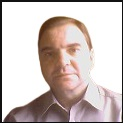
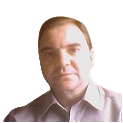
19: The resume section for 768 is ready.

diff --git a/js/form.js b/js/form.js
@@ -3,13 +3,12 @@ document.addEventListener('DOMContentLoaded', function(){
   const form = document.getElementById('form');
   form.addEventListener('submit', formSend);
 //------------------------------------------------
-// Function for submitting the entire form:
+  // Function for submitting the entire form:
   async function formSend(e){
     e.preventDefault();
 
     let error = formValidate(form);
 
-  // Sending the form by email:
     let formData = new FormData(form);
 
     if(error === 0){
@@ -32,7 +31,7 @@ document.addEventListener('DOMContentLoaded', function(){
       alert('Fill in required fields!');
     }
   }  
-//-----------------------------------------------
+  //-----------------------------------------------
   // Function for validation:  
   function formValidate(form){
     let error = 0;
@@ -54,19 +53,10 @@ document.addEventListener('DOMContentLoaded', function(){
       } else if(input.classList.contains('form__email')){        
         if(emailTest(input)){         
           error++;
-        }      
-        // if(input.classList.contains('form__tel')){        
-        //   if(phoneTest(input)){         
-        //     error++;
-        //   }
-        // }      
-      }         
-        // if(input.classList.contains('form__tel')){        
-        //   if(emailTest(input)){         
-        //     error++;
-        //   }      
-        // }            
+        }           
+      }                     
     }
+    //----------------------------------------
 
     function formAddErrorForTel(inputTel, text){
       const parentTel = inputTel.parentNode;
@@ -83,11 +73,6 @@ document.addEventListener('DOMContentLoaded', function(){
         parentTel.querySelector('.form__label').remove();
         inputTel.classList.remove('_error');
       }
-      // parentTel.classList.add('errorTel');
-      // inputTel.classList.add('_error');
-      // errorLabel.classList.add('form__label');
-      // errorLabel.textContent = text;
-      // parentTel.append(errorLabel);
     }
     // Phone number testing function:
     function phoneTest(inputTel){
@@ -96,7 +81,7 @@ document.addEventListener('DOMContentLoaded', function(){
 
     if(inputTel.value !==''){
       if(phoneTest(inputTel)){
-        formAddErrorForTel(inputTel, 'No one!');
+        formAddErrorForTel(inputTel, 'The first character must be a number or a plus. The last character is a number only. Parentheses, spaces and hyphens are allowed. From 4 to 14 characters in total.');
         error++;
       } else {
         formRemoveErrorForTel(inputTel);
@@ -104,10 +89,8 @@ document.addEventListener('DOMContentLoaded', function(){
     }
 
     return error;
-  }
-// // End of checking that required fields are filled in
-  
-
+  }  
+  //-------------------------------------------------
   function formAddError(input, text){
     input.classList.add('_error');
     const formItems = input.parentNode;
@@ -128,33 +111,5 @@ document.addEventListener('DOMContentLoaded', function(){
   function emailTest(input){
     return !/^\w+([\.-]?\w+)*@\w+([\.-]?\w+)*(\.\w{2,8})+$/.test(input.value);
   }
-
-  
-  // // End of email testing feature  
-
-  //+++++++++ Temporarily not in use: +++++++++++++++++++++++
-    // Phone number verification function:    
-    
-    // // End of phone number testing function
-
-    // if(inputTel.value ===''){
-    //   formAddErrorForTel(inputTel, 'Fill in required fields!');
-    //   error++;
-    // } else if(phoneTest(inputTel)){
-    //   formRemoveErrorForTel(inputTel);
-    //   error++;
-    // }
-    // }
-  
-
-
-    // if(inputTel.value !== ''){
-    //   formRemoveErrorForTel(inputTel);
-    //   if(phoneTest(inputTel)){
-    //     formAddErrorForTel(inputTel, 'The first character must be a number or a plus. The last character is a number only. Parentheses, spaces and hyphens are allowed. From 4 to 14 characters in total.');
-    //     error++;      
-    //   }
-    // }    
-    // // End of phone number verification function
-//+++++++++ //Temporarily not in use +++++++++++++++++++++++
+  //-------------------------------
 });

diff --git a/index.html b/index.html
@@ -33,7 +33,7 @@
           </ul>
         </nav>
         <div class="header__photo">
-            <img src="img/images/images-myPhoto/myPhoto_1.jpg" alt="My photo">
+            <img src="img/images/images-myPhoto/myPhotoBig.jpg" alt="My photo">
         </div>
         <hgroup class="header__text">
           <h1 class="header__title">Aleksandr Bugakov</h1>
@@ -56,7 +56,7 @@
       <section class="resume">
         <div class="resume__container _container" id="resume">
           <div class="resume__photo">
-              <img src="img/images/images-myPhoto/myPhoto_for_resume.jpg" alt="My photo">
+              <img src="img/images/images-myPhoto/myPhotoSmall.jpg" alt="My photo">
           </div>          
           <h2 class="resume__title heading">Resume</h2>
           <div class="resume__about">
@@ -66,7 +66,7 @@
           </div>         
           <div class="resume__row">            
             <div class="resume__col">
-              <h3 class="heading heading--medium">Work experience</h3>
+              <h3 class="heading--medium">Work experience</h3>
               <ul class="definition-list">
                 <li class="definition-list__item">
                   <div class="definition-list__def">December - present</div>                  

diff --git a/scss/sections/_resume.scss b/scss/sections/_resume.scss
@@ -27,6 +27,7 @@
     background: transparent;
     font-size: 0;
   }
+  
   &__row {
     margin: 35px 0 15px;
     display: grid;
@@ -40,16 +41,16 @@
 }  
 @media(min-width: 768px) {
   .resume {
-    padding: 54px 0px;
+    padding: 56px 0px;
 
     &__container {
       padding: 0 24px;
       display: grid;
       // grid-template-rows: min-content auto min-content;
       // grid-template-columns: 1fr 3fr;
-      row-gap: 30px;
+      row-gap: 25px;
       column-gap: 10px;
-      grid-template-columns: 155px 1fr;
+      grid-template-columns: 114px 1fr;
       grid-template-rows: auto auto auto auto;
       grid-template-areas: 
       "resume__photo resume__title"
@@ -72,7 +73,7 @@
       opacity: 1;
       border-radius: 80px;
 
-    
+      
     // margin-bottom: 40px;
     // margin-top: 20px;
     // overflow: hidden;

diff --git a/css/style.css b/css/style.css
@@ -339,7 +339,7 @@ a.mouse__scroll {
 .button {
   display: inline-block;
   background-color: var(--default-text-blue-dark);
-  padding: 15px 20px;
+  padding: 15px 25px;
   color: #fff;
   border-radius: 24px;
   font-size: 16px;
@@ -724,15 +724,15 @@ a.mouse__scroll {
 
 @media (min-width: 768px) {
   .resume {
-    padding: 54px 0px;
+    padding: 56px 0px;
   }
   .resume__container {
     padding: 0 24px;
     display: grid;
-    row-gap: 30px;
+    row-gap: 25px;
     -moz-column-gap: 10px;
          column-gap: 10px;
-    grid-template-columns: 155px 1fr;
+    grid-template-columns: 114px 1fr;
     grid-template-rows: auto auto auto auto;
     grid-template-areas: "resume__photo resume__title" "resume__photo resume__about" "resume__photo resume__row" "resume__photo resume__button";
   }

diff --git a/scss/blocks/_button.scss b/scss/blocks/_button.scss
@@ -1,7 +1,7 @@
 .button {
   display: inline-block;
   background-color: var(--default-text-blue-dark);
-  padding: 15px 20px;
+  padding: 15px 25px;
   color: #fff;
   border-radius: 24px;
   font-size: 16px;
